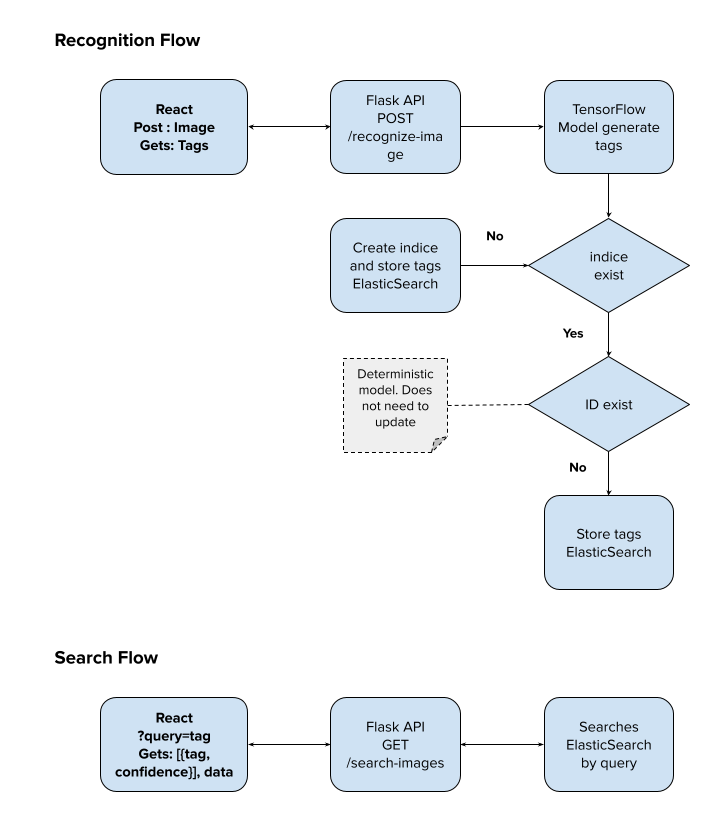
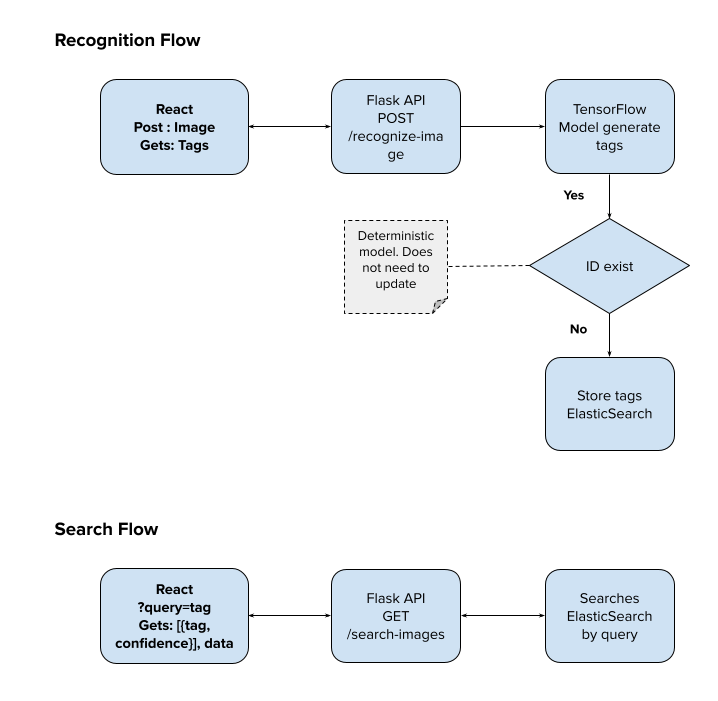
fix: update image and simplify es indice creation

diff --git a/server/app.py b/server/app.py
@@ -20,6 +20,7 @@ es = Elasticsearch(
     hosts=ES_URL,
     basic_auth=("elastic", ES_PASSWORD)
 )
+es.indices.create(index='images')
 
 # Load the MobileNet model
 model = tf.keras.applications.MobileNetV2(weights='imagenet', alpha=1.4)
@@ -50,11 +51,8 @@ def recognize_image():
             tags.append({"tag": tag, "confidence": confidence})
 
     # Manages indices and id existence and store to elastic search. 
-    if es.indices.exists(index="images"):
-        if not es.exists(index='images', id=file.filename):
-            es.create(index='images', id=file.filename, body={"tags": tags, "file-name": file.filename})
-    else:
-        es.index(index='images', id=file.filename, body={"tags": tags, "file-name": file.filename})
+    if not es.exists(index='images', id=file.filename):
+        es.create(index='images', id=file.filename, body={"tags": tags, "file-name": file.filename})
     
     return jsonify(tags), 200
 
